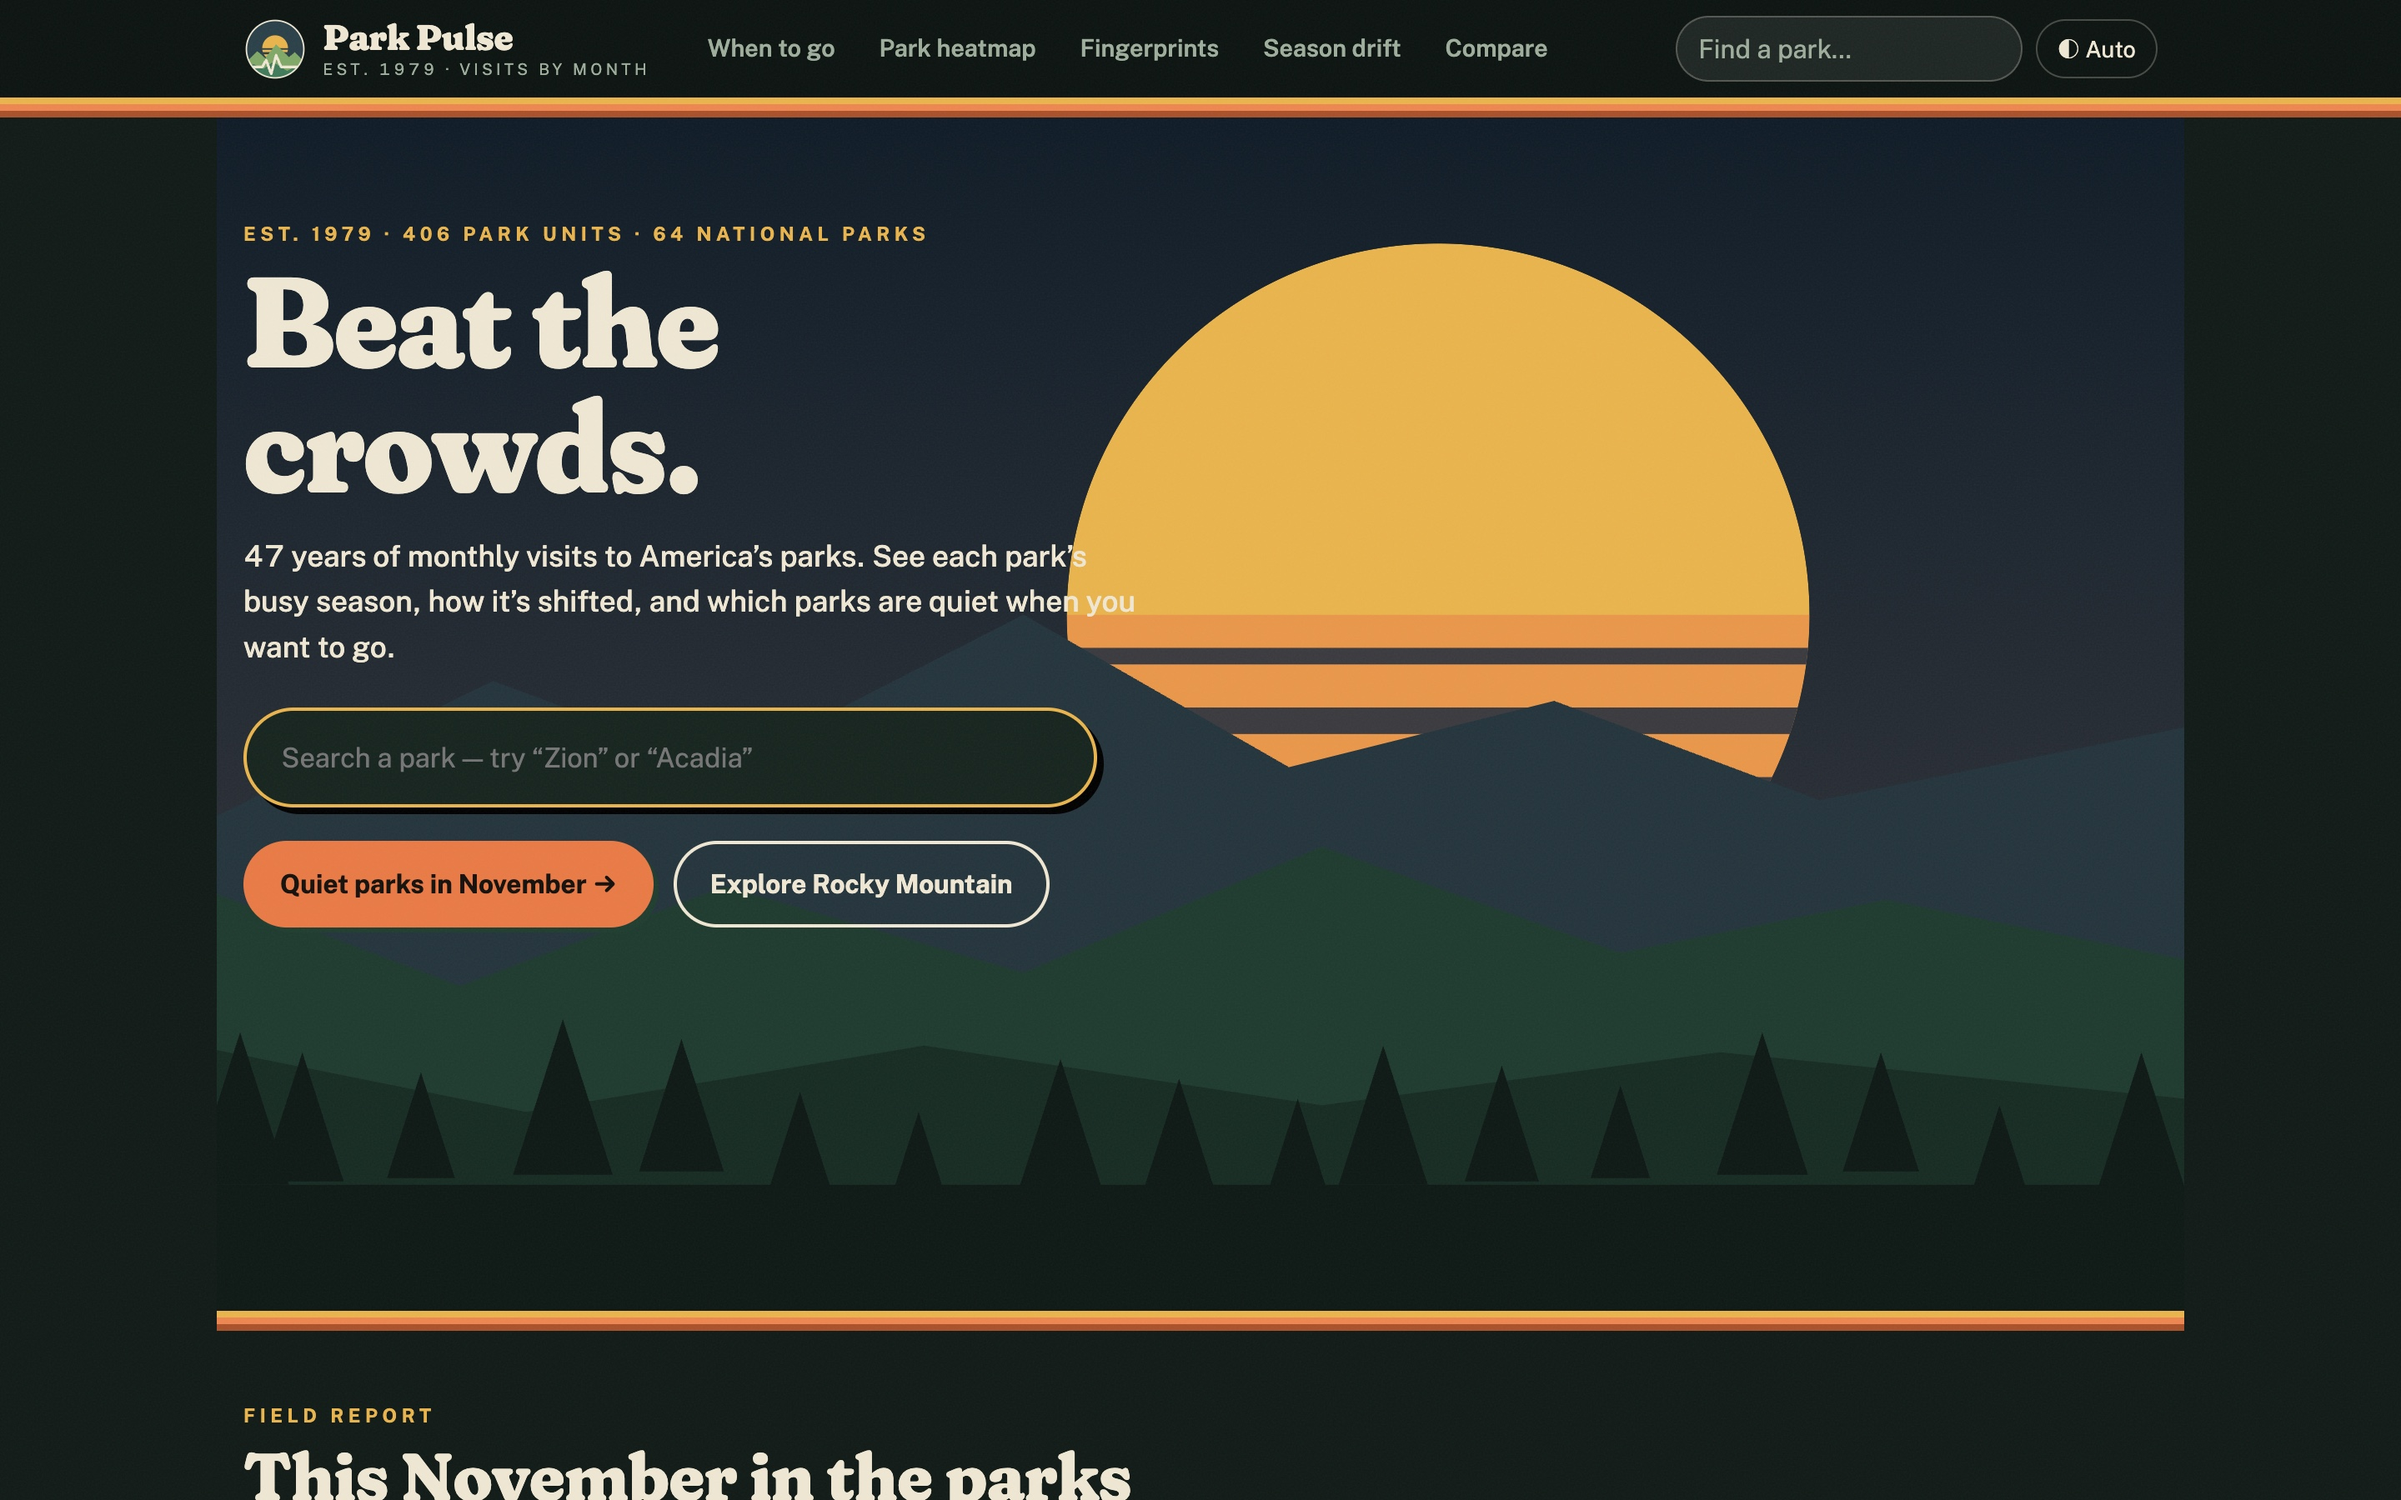
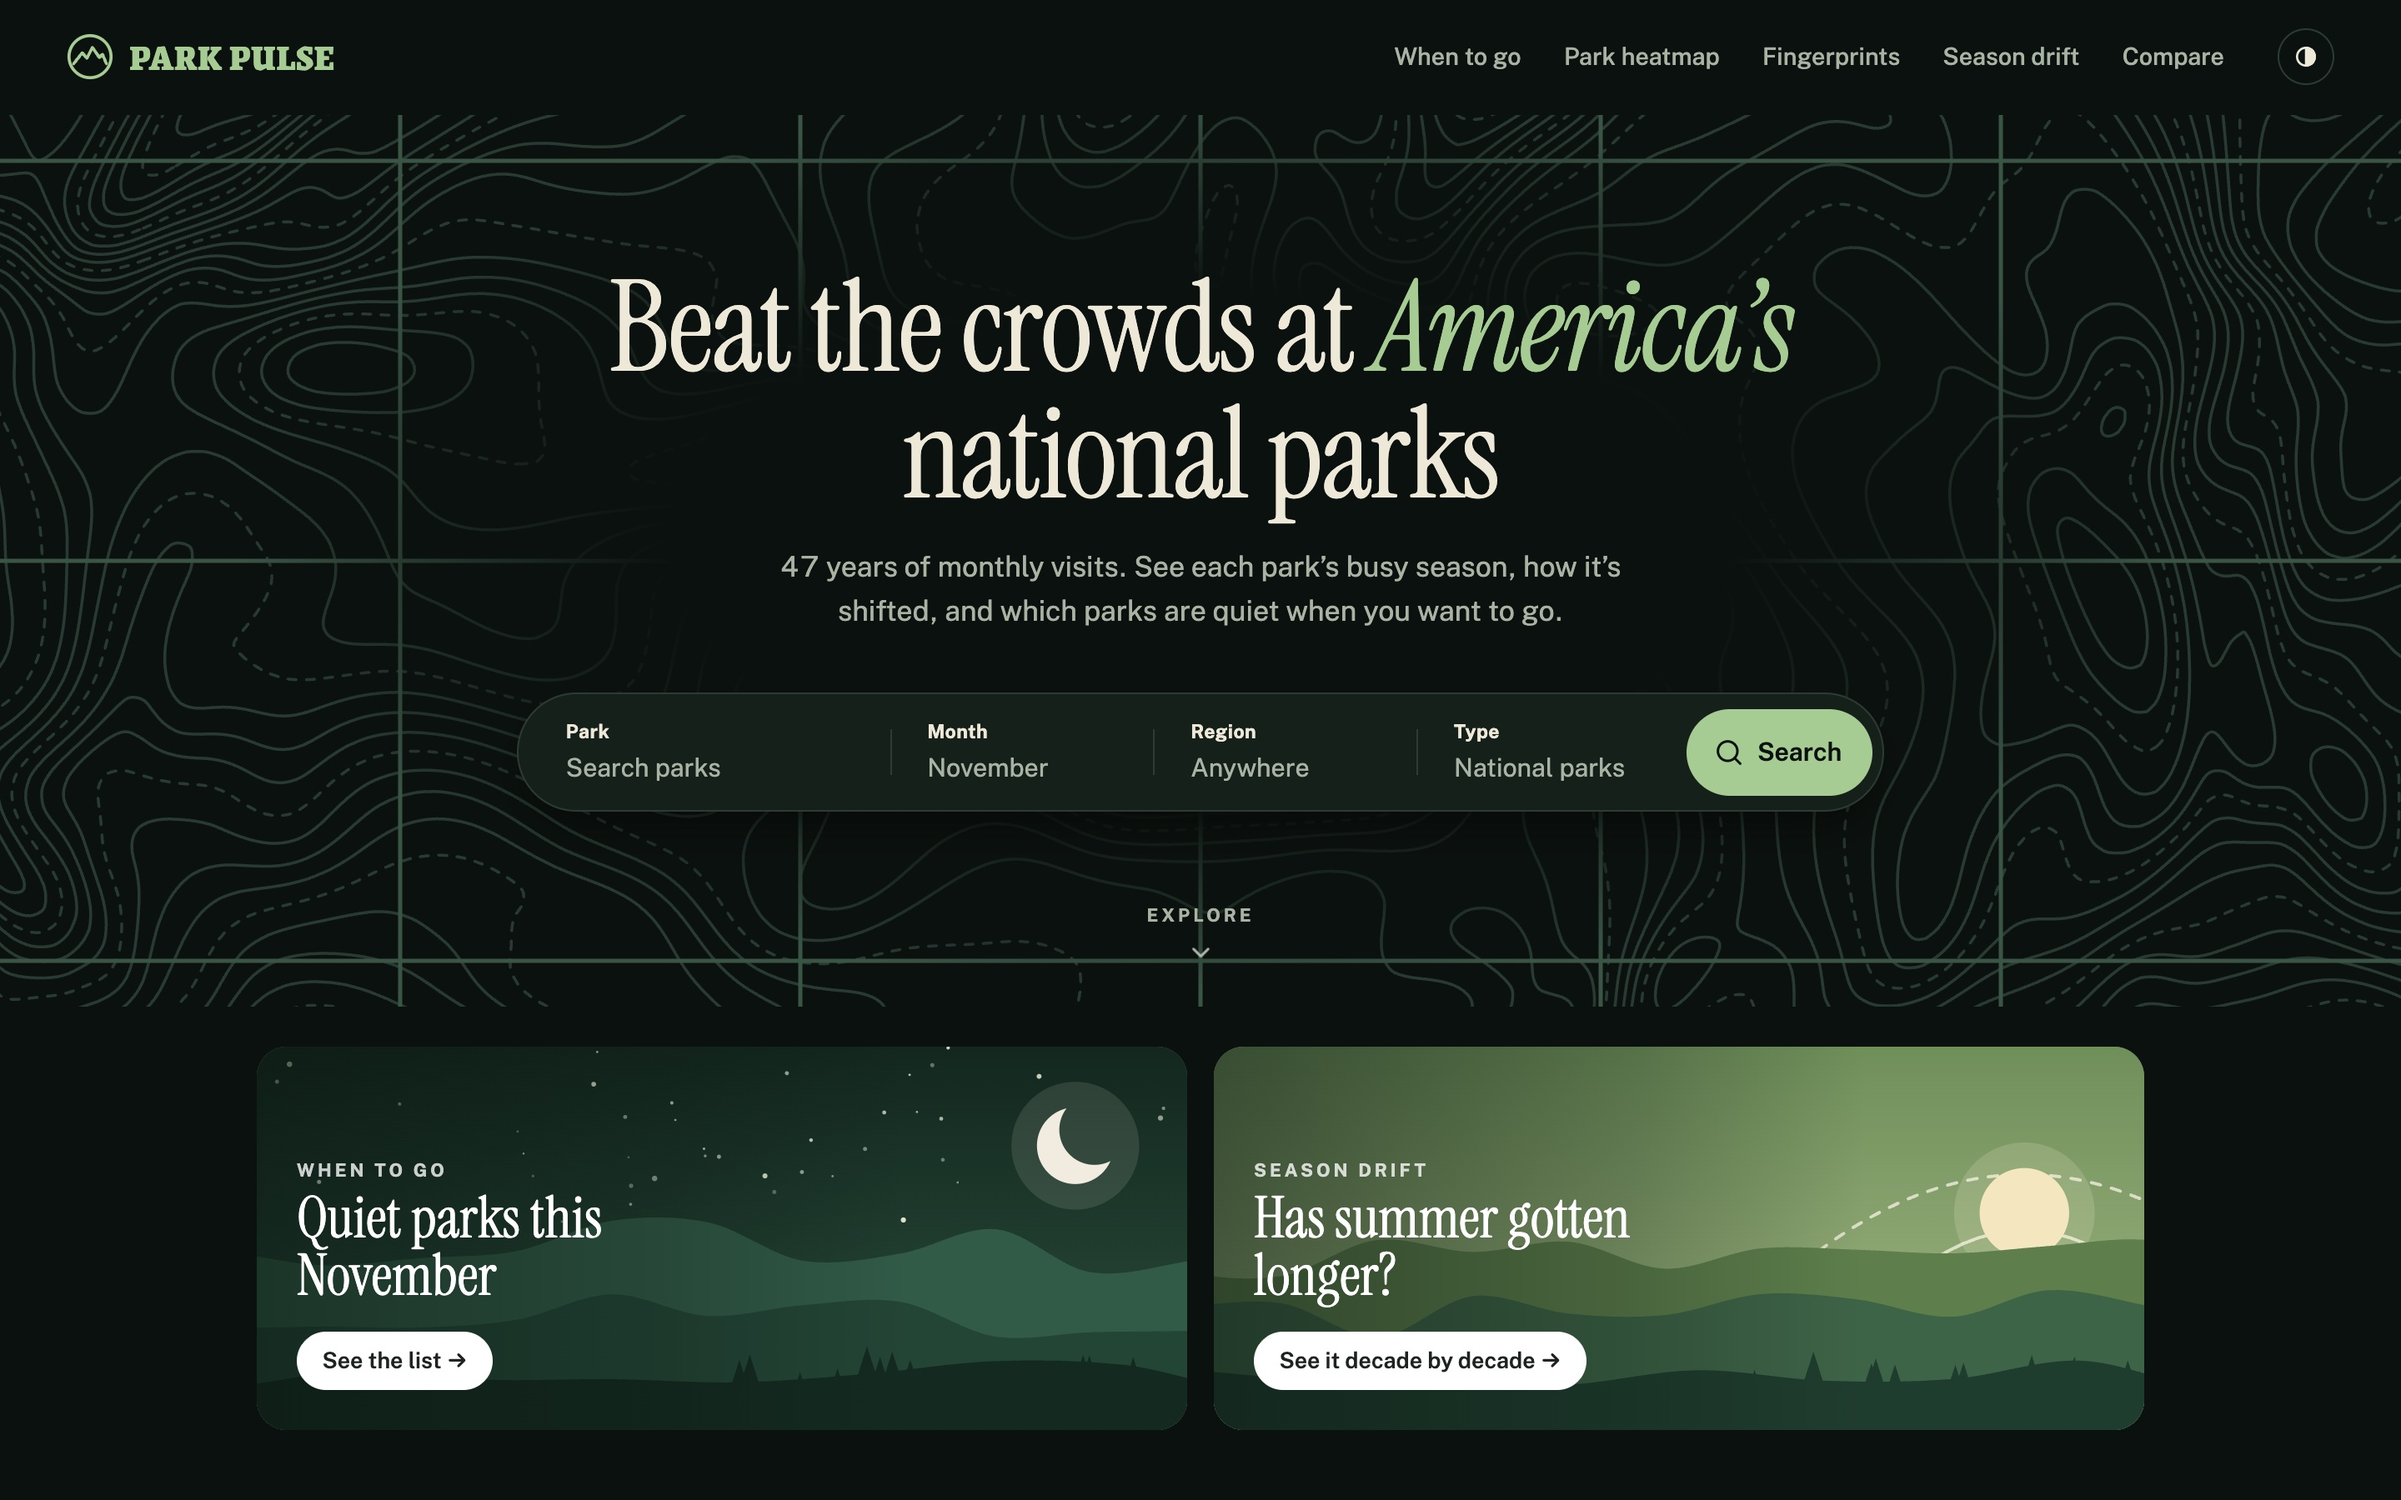
feat: capture covers from live sites, refresh Park Pulse (#18)
Covers were rendered from a template, but every source shot was taken
by hand. Now one manifest drives the whole pipeline:

- covers/covers.txt: slug, live URL and crop per project; url "-"
  marks shots staged by hand (Laser Head, Brooding Hopster)
- covers/capture.sh [slug]: shoots the live page at 1440x900, 2x,
  dark mode, then renders the 1600x840 cover
- covers/render.sh reads crops from the manifest; covers/lib.sh finds
  Chrome and writes JPEGs with sips (macOS) or ImageMagick (Linux)
- Refresh covers workflow: run by hand or via repository_dispatch
  from a project's deploy; opens a PR only when an image changed

Re-rendering every cover from the manifest is byte-identical to the
old crops. Park Pulse gets a fresh capture of its new design.

diff --git a/CLAUDE.md b/CLAUDE.md
@@ -9,7 +9,7 @@ Static single-page portfolio site. No framework, no build step — just `index.h
 - HTML, CSS, vanilla JS (all in `index.html`)
 - No package manager, no dependencies
 - Hosted on GitHub Pages with custom domain (`jessespencer.dev`, formerly `jessedestroys.com`, which Cloudflare now 301s here path for path; Zero is a Cloudflare Worker at `zero.jessespencer.dev`). This repo is the user site (`jessespencer/jessespencer.github.io`), so every project repo's Pages site is served at `jessespencer.dev/<repo>/` — link projects there, not at `github.io`, and don't add a top-level folder named like a project repo. The one exception is `rainbow/`: the old address of the Bible apps, which now live in the `bible` repo. It holds only redirect pages (Atlas and `timeline/` for Lineage), so old links keep working
-- `covers/` holds the thumbnail template, render script and source shots — excluded from the Pages build
+- `covers/` holds the cover manifest, capture and render scripts, template and source shots — excluded from the Pages build. `.github/workflows/covers.yml` refreshes covers from the live sites and opens a PR
 - `_config.yml` only excludes repo docs and `covers/` from the Pages build — add any new top-level `.md` there, or Pages will publish it
 - `AGENTS.md` is a symlink to this file (for Codex) — edit `CLAUDE.md`, never the link
 
@@ -43,7 +43,24 @@ To add a new case study, duplicate an `<article class="experiment">` block and u
 3. `.experiment-desc` — one-line description
 4. `.experiment-link` — optional external URL
 5. Embed: either an image thumbnail or an iframe in `.embed-wrap`. Thumbnails are 1600×840 JPEG covers in `images/`, all rendered from `covers/template.html` so the set stays uniform — never drop in a raw screenshot or a site's `og:image`:
-   - Capture the live project at 1440×900, 2x, dark mode, into `covers/shots/<slug>.jpg` (stage light-only pages on a dark background)
-   - Add a `render <slug> "<crop>"` line to `covers/render.sh` and run `covers/render.sh <slug>`; set `zoom`, `x` and `y` so the subject fills the card, especially on sparse pages
+   - Add a line to `covers/covers.txt`: slug, live URL (a path or query can pick the best state) and crop (`zoom`, `x`, `y`, so the subject fills the card, especially on sparse pages)
+   - Run `covers/capture.sh <slug>`: it shoots the URL at 1440×900, 2x, dark mode into `covers/shots/<slug>.jpg`, then renders `images/<slug>.jpg`. To adjust only the crop, edit the manifest and run `covers/render.sh <slug>`
+   - Shots that need staging (a light-only page on a dark background, a specific in-game moment) get url `-`: capture them by hand into `covers/shots/`; the scripts and CI never re-shoot them
+
+## Covers
+
+Refreshing a cover after a project ships is `covers/capture.sh <slug>` locally, or the **Refresh covers** workflow (Actions → Run workflow, slug blank for all). The workflow opens a PR only when an image changed; merging it deploys. It needs "Allow GitHub Actions to create and approve pull requests" enabled in the repo's Actions settings.
+
+A project can refresh its own cover on every deploy by adding this as the last step of its Pages workflow, with a `COVERS_DISPATCH_TOKEN` secret (a fine-grained token with Contents read/write on `jessespencer/jessespencer.github.io`). It skips quietly when the secret isn't set:
+
+```yaml
+      - name: Refresh cover on jessespencer.dev
+        env:
+          GH_TOKEN: ${{ secrets.COVERS_DISPATCH_TOKEN }}
+        run: |
+          [ -n "$GH_TOKEN" ] || exit 0
+          gh api repos/jessespencer/jessespencer.github.io/dispatches \
+            -f event_type=project-deployed -f 'client_payload[slug]=<slug>'
+```
 
 To add a new rotating tagline, append a string to the `phrases` array in the `<script>` block.
